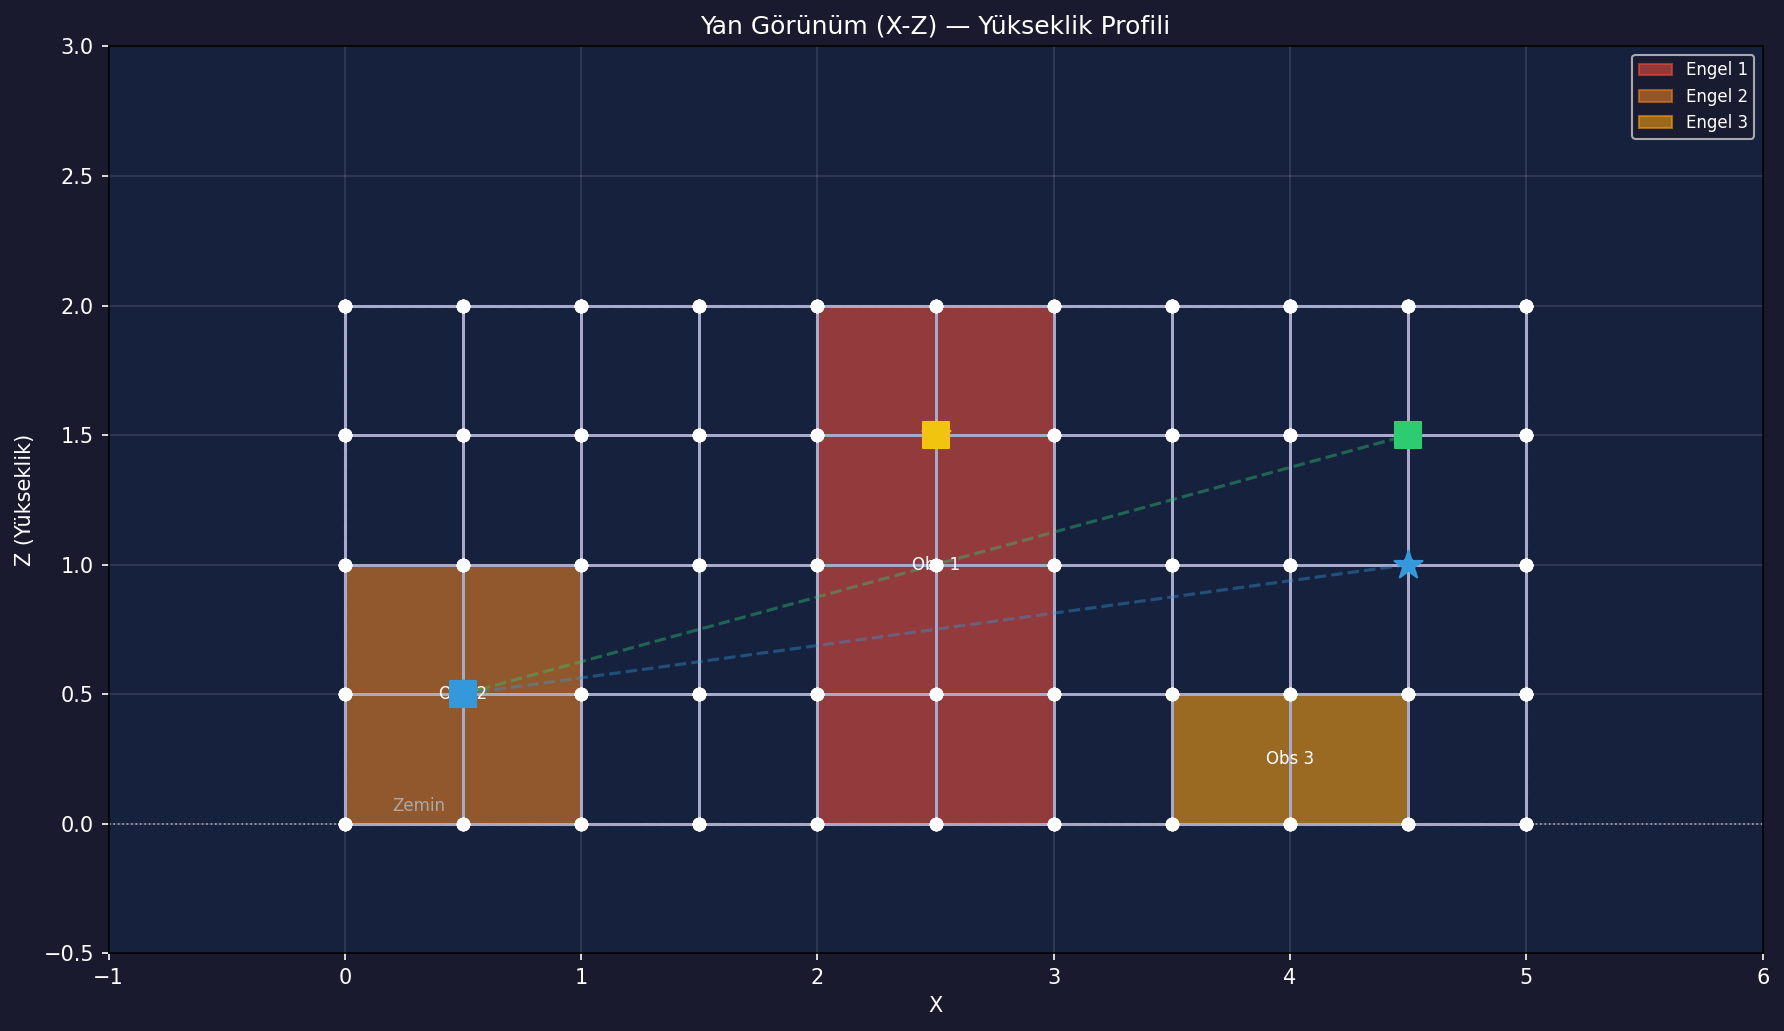
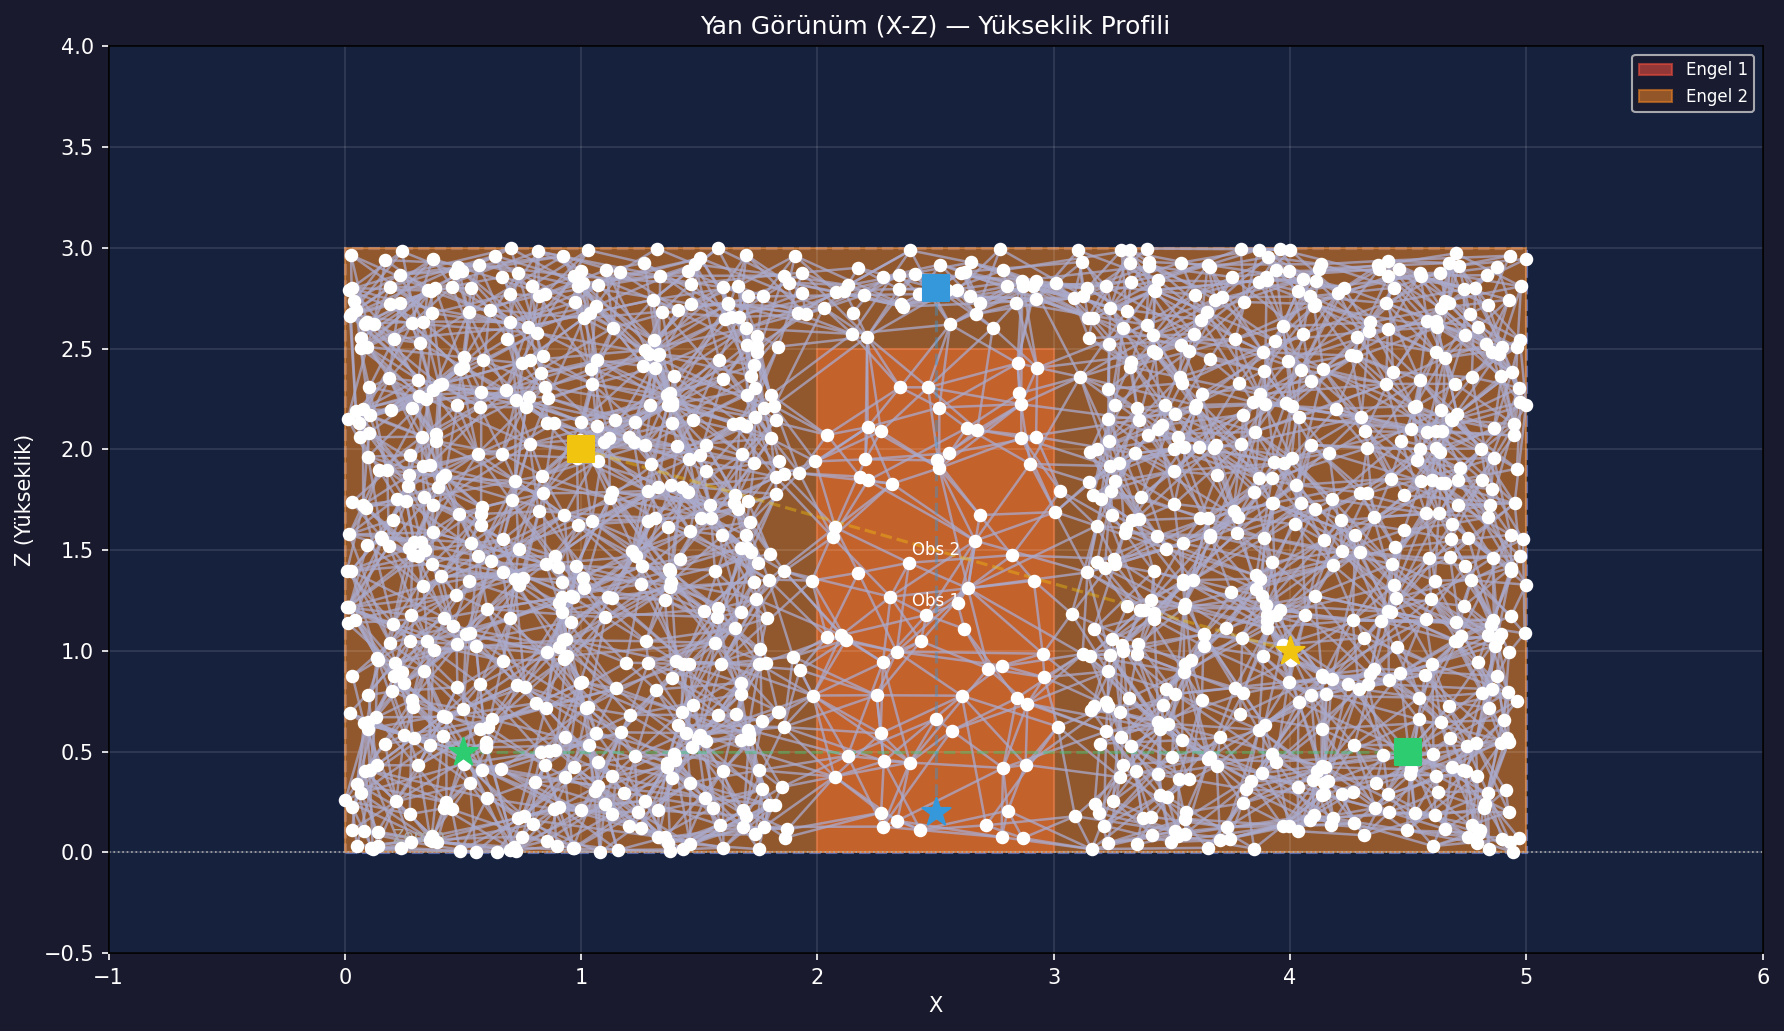
bug fix on SPARSRoadMapGeneration

diff --git a/include/SPARSRoadMapGenerator.h b/include/SPARSRoadMapGenerator.h
@@ -1,8 +1,7 @@
 #pragma once
 #include <map>
-#include <tuple>
 #include <vector>
-#include <limits>
+#include <algorithm>
 #include <Eigen/Dense>
 #include "Environment.h"
 #include "FCLCollisionChecker.h"
@@ -12,152 +11,165 @@
 #include <ompl/geometric/planners/prm/SPARS.h>
 #include <ompl/base/PlannerData.h>
 #include <ompl/base/PlannerTerminationCondition.h>
+#include <ompl/base/ProblemDefinition.h>
+#include <ompl/base/ScopedState.h>
 
 namespace ob = ompl::base;
 namespace og = ompl::geometric;
 
-class SPARSRoadMapGenerator{
+class SPARSRoadMapGenerator {
 public:
     const Environment& env;
     const FCLCollisionChecker& collisionChecker;
     double sparseDeltaFraction;
 
-
-    SPARSRoadMapGenerator(  const Environment& env, 
-                            const FCLCollisionChecker& collisionChecker, 
-                            double sparseDeltaFraction = 0.05)
+    SPARSRoadMapGenerator(const Environment& env,
+                          const FCLCollisionChecker& collisionChecker,
+                          double sparseDeltaFraction = 0.05)
         : env(env), collisionChecker(collisionChecker), sparseDeltaFraction(sparseDeltaFraction) {}
 
     Graph createRoadMap() {
         Graph roadMap;
         std::map<unsigned int, int> vertexMap;
 
-        auto space(std::make_shared<ob::RealVectorStateSpace>(3)); // Example: 3D Euclidean space
-        ob::RealVectorBounds bounds(3); //Degree of Freedom
-        bounds.setLow(0, env.world_min.x()); bounds.setHigh(0, env.world_max.x());
-        bounds.setLow(1, env.world_min.y()); bounds.setHigh(1, env.world_max.y());
-        bounds.setLow(2, env.world_min.z()); bounds.setHigh(2, env.world_max.z());
+        auto space = std::make_shared<ob::RealVectorStateSpace>(3);
+        ob::RealVectorBounds bounds(3);
+        bounds.setLow(0,  env.world_min.x()); bounds.setHigh(0, env.world_max.x());
+        bounds.setLow(1,  env.world_min.y()); bounds.setHigh(1, env.world_max.y());
+        bounds.setLow(2,  env.world_min.z()); bounds.setHigh(2, env.world_max.z());
         space->setBounds(bounds);
 
-        auto si(std::make_shared<ob::SpaceInformation>(space));
+        auto si = std::make_shared<ob::SpaceInformation>(space);
         si->setStateValidityChecker([this](const ob::State* s) {
             return isStateValid(s);
         });
         si->setup();
 
-        auto planner = std::make_shared<og::SPARS>(si);
-        planner->setSparseDeltaFraction(sparseDeltaFraction);
-
-        // SPARS planlayıcısının çalışabilmesi için bir ProblemDefinition nesnesi gereklidir.
-        
+        // dummy start and goal
         ob::ScopedState<ob::RealVectorStateSpace> startState(space);
+        ob::ScopedState<ob::RealVectorStateSpace> goalState(space);
 
-        auto pdef = std::make_shared<ob::ProblemDefinition>(si);
-        startState[0] = env.agents[0].start.x();
-        startState[1] = env.agents[0].start.y();
-        startState[2] = env.agents[0].start.z();
-
-        goalState[0] = env.agents[0].goal.x();
-        goalState[1] = env.agents[0].goal.y();
-        goalState[2] = env.agents[0].goal.z();
-
-        pdef->addStartState(startState);
-        planner->setProblemDefinition(pdef);
-        
-        planner->setProblemDefinition(pdef);
-
-        // Planlayıcıyı belirli bir süre (örneğin 10 saniye) çalıştıktan sonra durdur.
-        // SPARS gibi yol haritası oluşturucular için bu genellikle yeterlidir.
-        ob::PlannerTerminationCondition ptc = ob::timedPlannerTerminationCondition(10.0);
-        ob::PlannerStatus solved = planner->solve(ptc);
-
-        if (!solved) {
-            std::cerr << "Cannot create SPARS RoadMap!\n";
-            return roadMap;
+        if (!env.agents.empty()) {
+            startState[0] = env.agents[0].start.x();
+            startState[1] = env.agents[0].start.y();
+            startState[2] = env.agents[0].start.z();
+            goalState[0]  = env.agents[0].goal.x();
+            goalState[1]  = env.agents[0].goal.y();
+            goalState[2]  = env.agents[0].goal.z();
+        } else {
+            Eigen::Vector3d c = (env.world_min + env.world_max) * 0.5;
+            startState[0] = goalState[0] = c.x();
+            startState[1] = goalState[1] = c.y();
+            startState[2] = goalState[2] = c.z();
         }
 
-        // Roadmap'i bir veri yapısına aktar
+        auto pdef = std::make_shared<ob::ProblemDefinition>(si);
+        pdef->addStartState(startState);
+        pdef->setGoalState(goalState);
+
+        auto planner = std::make_shared<og::SPARS>(si);
+        planner->setSparseDeltaFraction(sparseDeltaFraction);
+        planner->setProblemDefinition(pdef);
+        planner->setup();
+
+        // solve() hem roadmap oluşturur hem yol arar.
+        // Başarısız olsa bile roadmap oluşmuş olabilir — getPlannerData() yeterli.
+        ob::PlannerTerminationCondition ptc = ob::timedPlannerTerminationCondition(10.0);
+        planner->solve(ptc);
+
         ob::PlannerData data(si);
         planner->getPlannerData(data);
 
+        if (data.numVertices() == 0) {
+            std::cerr << "SPARS: Roadmap bos olustu!\n";
+            return roadMap;
+        }
+
+        std::cout << "SPARS: " << data.numVertices() << " vertex, "
+                  << data.numEdges() << " edge olusturuldu.\n";
+
         addVertices(roadMap, vertexMap, data);
         addEdges(roadMap, vertexMap, data);
-        connectAgents(roadMap, vertexMap);
+
+        connectAgents(roadMap);
 
         return roadMap;
-
     }
 
-
-    bool isStateValid(const ob::State *state) {
-        const auto *pos = state->as<ob::RealVectorStateSpace::StateType>();
-        double x = pos->values[0], y = pos->values[1], z = pos->values[2];
-    
-        Eigen::Vector3d point(x, y, z);
-    
+    bool isStateValid(const ob::State* state) {
+        const auto* pos = state->as<ob::RealVectorStateSpace::StateType>();
+        Eigen::Vector3d point(pos->values[0], pos->values[1], pos->values[2]);
         return !collisionChecker.isOccupied(point);
     }
 
 private:
-    double computeSearchRadius(){
-        double xmax_xmin = env.world_max.x() - env.world_min.x();
-        double ymax_ymin = env.world_max.y() - env.world_min.y();
-        double zmax_zmin = env.world_max.z() - env.world_min.z();
-        
-        double max_extent = sqrt( pow((xmax_xmin),2)
-                                + pow((ymax_ymin),2)
-                                + pow((zmax_zmin),2));
-
-        return max_extent * sparseDeltaFraction;
+    double computeSearchRadius() {
+        double dx = env.world_max.x() - env.world_min.x();
+        double dy = env.world_max.y() - env.world_min.y();
+        double dz = env.world_max.z() - env.world_min.z();
+        return std::sqrt(dx*dx + dy*dy + dz*dz) * sparseDeltaFraction;
     }
 
-    void addVertices(Graph& graph, std::map<unsigned int, int>& vertexMap, ob::PlannerData& data){
-        for(unsigned int i=0; i < data.numVertices(); i++){
-            const auto& vertex = data.getVertex(i);
-            
-            const auto *state = vertex.getState()->as<ob::RealVectorStateSpace::StateType>();
-            double x = state->values[0];
-            double y = state->values[1];
-            double z = state->values[2];
-
-            Eigen::Vector3d pos(x, y, z);
-
-            vertexMap[i] = graph.addVertex(pos); 
+    void addVertices(Graph& graph,
+                     std::map<unsigned int, int>& vertexMap,
+                     ob::PlannerData& data)
+    {
+        for (unsigned int i = 0; i < data.numVertices(); i++) {
+            const ob::PlannerDataVertex& v = data.getVertex(i);
+            if (!v.getState()) continue;   
+            const auto* s = v.getState()->as<ob::RealVectorStateSpace::StateType>();
+            Eigen::Vector3d pos(s->values[0], s->values[1], s->values[2]);
+            vertexMap[i] = graph.addVertex(pos);
         }
     }
 
-    void addEdges(Graph& graph, std::map<unsigned int, int>& vertexMap, ob::PlannerData& data){
-        for(unsigned int i=0; i < data.numVertices(); i++){
+    void addEdges(Graph& graph,
+                  std::map<unsigned int, int>& vertexMap,
+                  ob::PlannerData& data)
+    {
+        for (unsigned int i = 0; i < data.numVertices(); i++) {
             std::vector<unsigned int> edgeList;
             data.getEdges(i, edgeList);
-
-            for(unsigned int neighborIndex : edgeList)
-                graph.addEdge(vertexMap.at(i), vertexMap.at(neighborIndex));
-            
-        }
-    }
-
-    void connectAgents(Graph& graph, std::map<unsigned int, int>& vertexMap){
-        for (const auto& agent : env.agents) {
-            connectPoint(agent.start, graph, vertexMap);
-            connectPoint(agent.goal,  graph, vertexMap);
-        }
-    }
-
-    void connectPoint(  const Eigen::Vector3d& point,
-                        Graph& graph,
-                        std::map<unsigned int, int>& vertexMap){
-        
-        int id = graph.addVertex(point);
-
-        double search_radius = computeSearchRadius();
-        for (const auto& vertex : graph.getVertices()){
-            if(id == vertex.id) continue;
-
-            double dist = (vertex.pos - point).norm();
-            if(dist <= search_radius && collisionChecker.isEdgeFree(point, vertex.pos)){
-                graph.addEdge(id, vertex.id);
+            for (unsigned int nb : edgeList) {
+                if (vertexMap.count(i) && vertexMap.count(nb))
+                    graph.addEdge(vertexMap.at(i), vertexMap.at(nb));
             }
         }
+    }
+
+    void connectAgents(Graph& graph) {
+        for (const auto& agent : env.agents) {
+            connectPoint(agent.start, graph);
+            connectPoint(agent.goal,  graph);
+        }
+    }
+
+    // Makale Section IV: "connect to up to six neighbors within a search radius
+    //                     if the edge could be traversed without collision"
+    void connectPoint(const Eigen::Vector3d& point, Graph& graph) {
+        int id = graph.addVertex(point);
+        double search_radius = computeSearchRadius();
+
+        std::vector<std::pair<double, int>> candidates;
+        for (const auto& v : graph.getVertices()) {
+            if (v.id == id) continue;
+            double dist = (v.pos - point).norm();
+            if (dist <= search_radius && collisionChecker.isEdgeFree(point, v.pos))
+                candidates.push_back({dist, v.id});
+        }
+
+        std::sort(candidates.begin(), candidates.end());
+
+        int connected = 0;
+        for (const auto& [dist, vid] : candidates) {
+            if (connected >= 6) break;
+            graph.addEdge(id, vid);
+            connected++;
+        }
+
+        if (connected == 0)
+            std::cerr << "Uyari: [" << point.transpose()
+                      << "] noktasi roadmap'e baglanamiyor! "
+                      << "Search radius: " << search_radius << "\n";
     }
 };

diff --git a/include/GridRoadMapGenerator.h b/include/GridRoadMapGenerator.h
@@ -3,6 +3,7 @@
 #include <tuple>
 #include <vector>
 #include <limits>
+#include <algorithm>
 #include <Eigen/Dense>
 #include "Environment.h"
 #include "FCLCollisionChecker.h"
@@ -129,7 +130,7 @@ private:
         }
     }
 
-    // Nokta indexMap'te yoksa vertex ekle + en yakın vertex'e bağla
+    // Nokta indexMap'te yoksa vertex ekle + en yakın 6 vertex'e bağla
     void connectPoint(  const Eigen::Vector3d& point,
                         Graph& graph,
                         std::map<std::tuple<int,int,int>, int>& indexMap){
@@ -140,16 +141,29 @@ private:
             if ((toPos(key) - point).norm() < 1e-6) return;
         }
 
-        // Vertex ekle (indexMap'e YAZMA — grid'i bozma)
         
         int id = graph.addVertex(point);
+
+        std::vector<std::pair<double, int>> candidates;
 
         double search_radius = grid_step * 1.5;
         for (const auto& [k, vid] : indexMap) {
             double dist = (toPos(k) - point).norm();
             if(dist <= search_radius && collisionChecker.isEdgeFree(point, toPos(k)))
-                graph.addEdge(id, vid);
+                candidates.push_back({dist, vid});
         }
 
+        std::sort(candidates.begin(), candidates.end());
+
+        int connected = 0;
+        for (const auto& [dist, vid] : candidates) {
+            if (connected >= 6) break;  // Makale: "up to six neighbors"
+            graph.addEdge(id, vid);
+            connected++;
+        }
+
+        if (connected == 0)
+            std::cerr << "Uyari: " << point.transpose()
+                      << " noktasi roadmap'e baglanamiyor!\n"; 
     }
 };